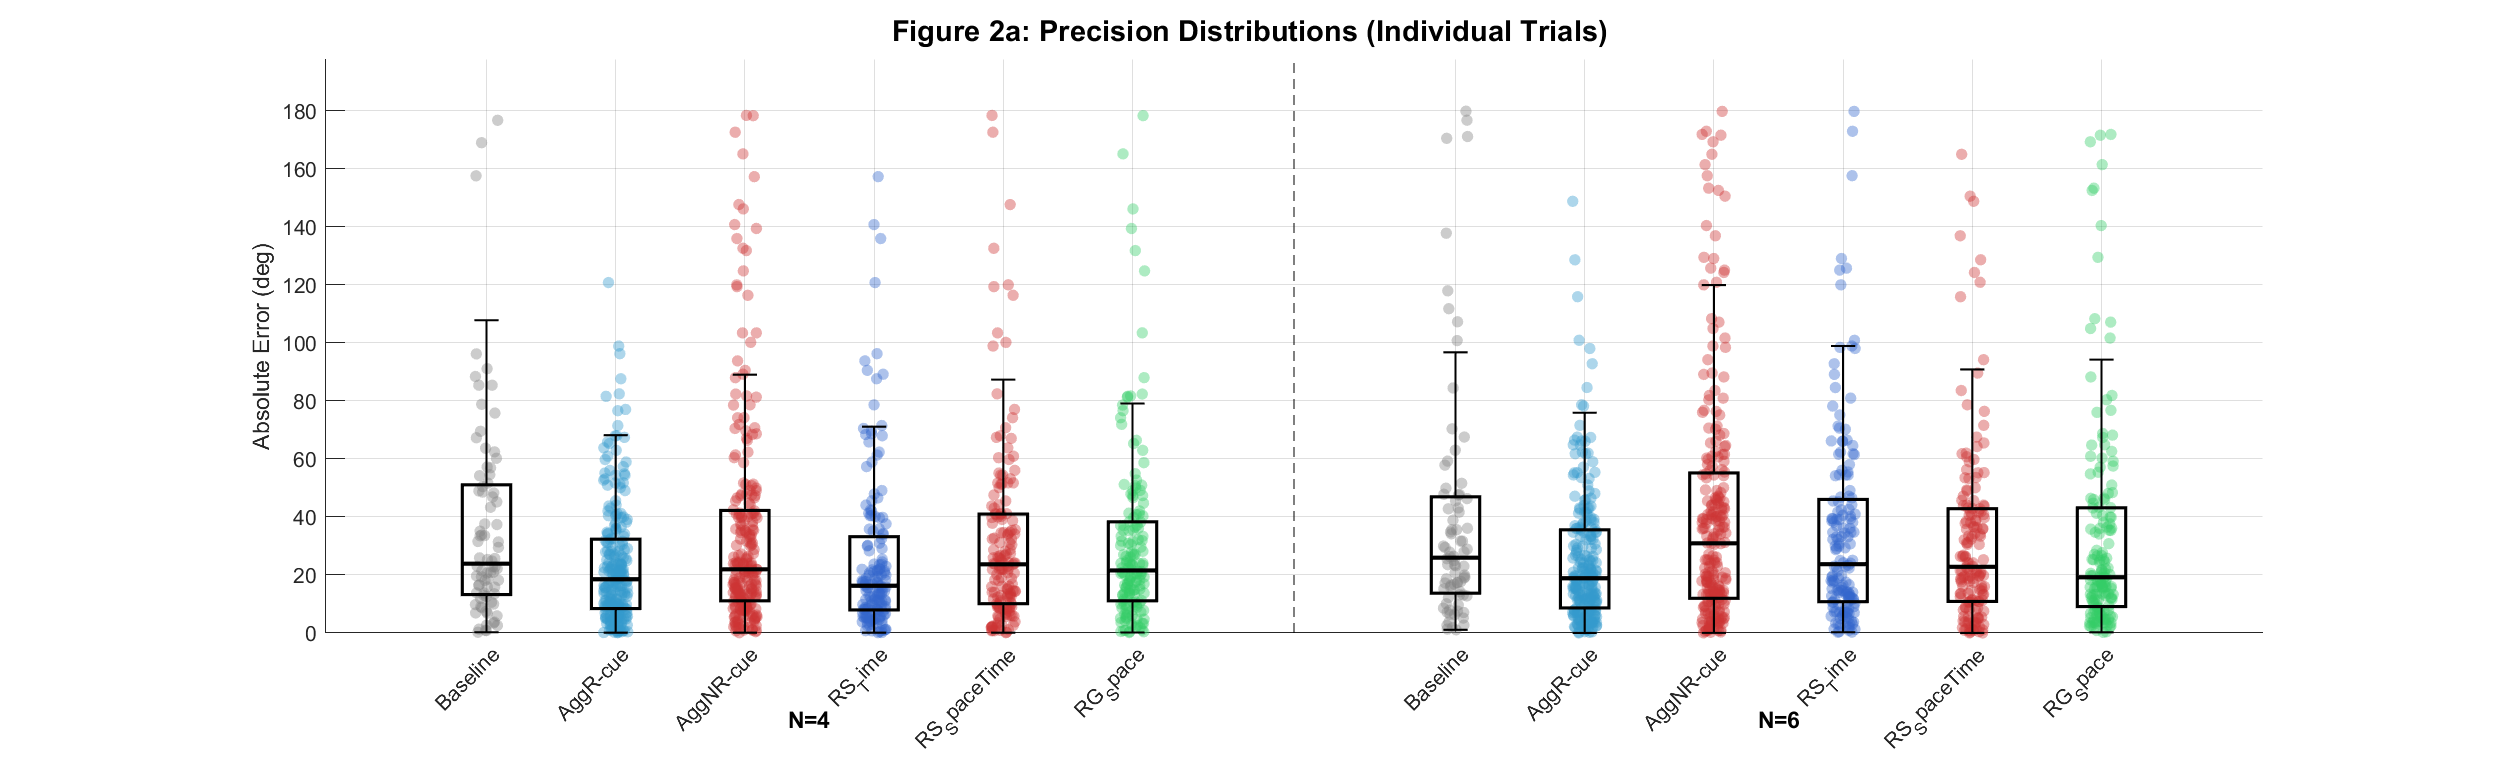
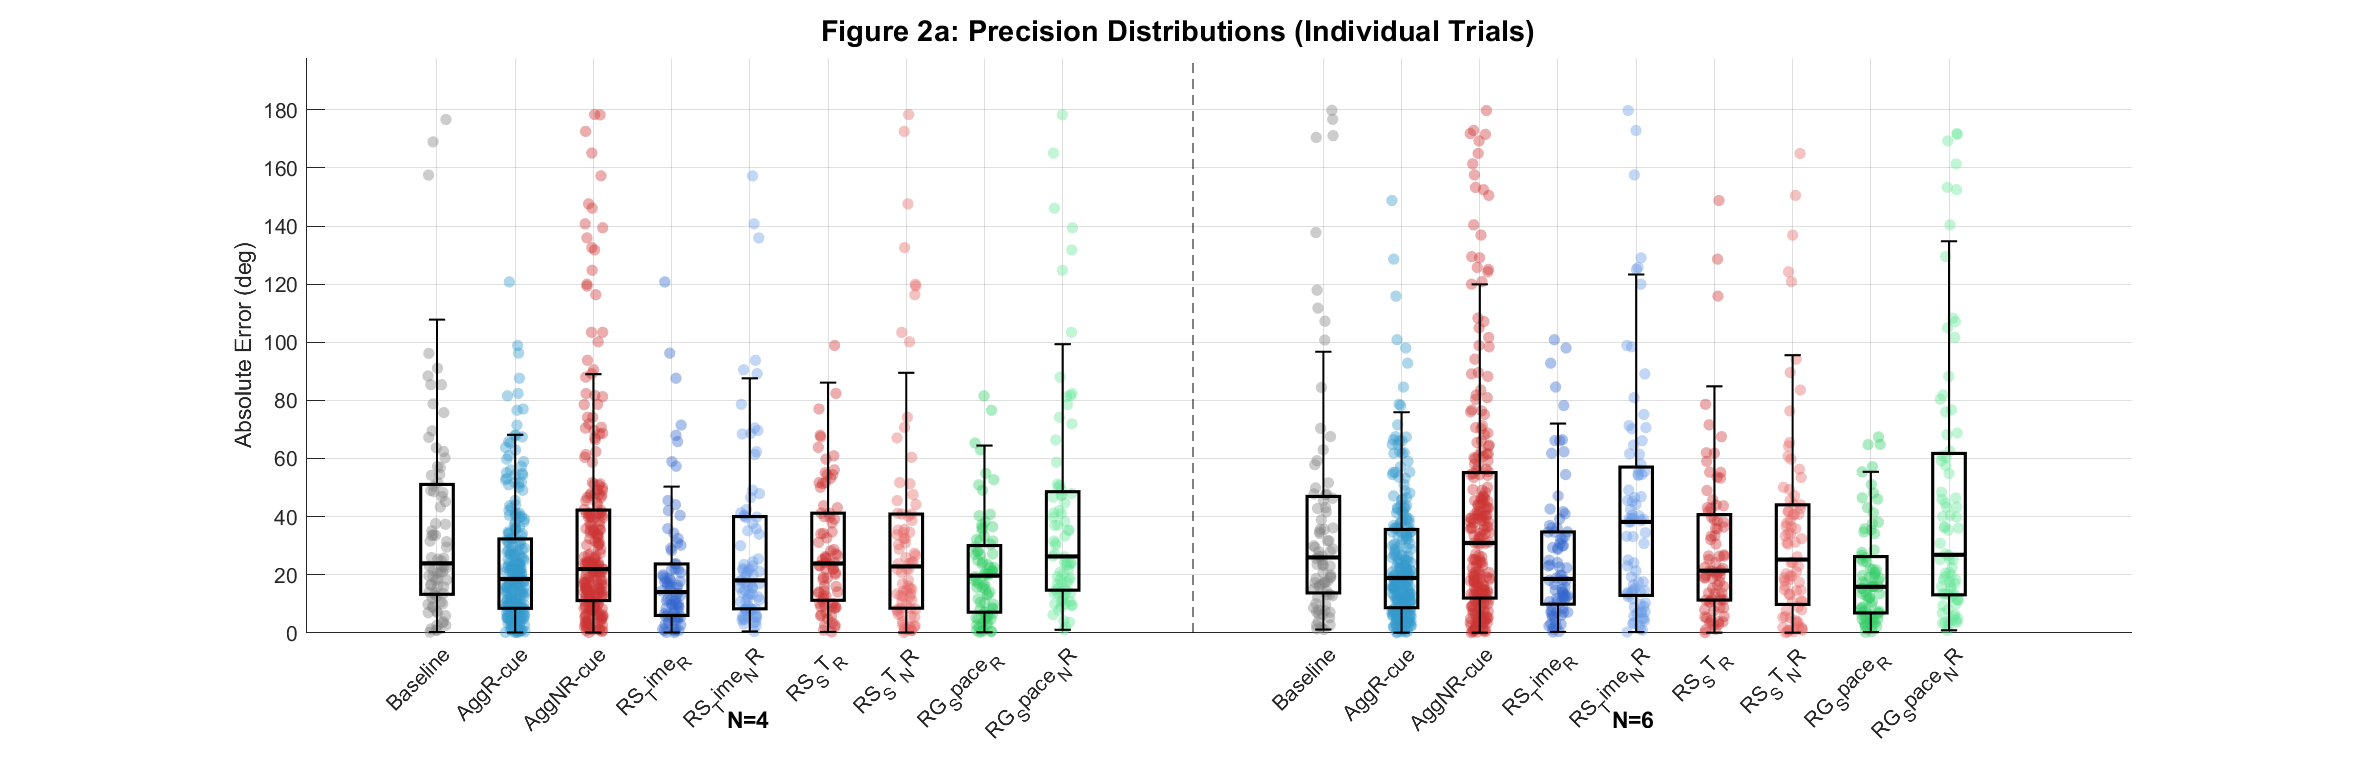
Pilot2 Figure update

diff --git a/Experiments/Daz2025/Exp2.5_NoisePilot/Noise Pilot STInte Data/plot_STInte_summary.m b/Experiments/Daz2025/Exp2.5_NoisePilot/Noise Pilot STInte Data/plot_STInte_summary.m
@@ -7,6 +7,7 @@
 clear; close all; clc;
 
 fprintf('=== Loading STInte Data ===\n\n');
+fprintf('*** SCRIPT VERSION: UPDATED WITH 9 BARS PER GROUP ***\n\n');
 
 % Data directory (script runs from within the data folder)
 dataDir = '.';
@@ -93,12 +94,14 @@ end
 
 % Prepare data for plotting
 % Groups: N=4 (high noise), N=6 (high noise)
-% For each group: Baseline, AggR-cue, AggNR-cue, RS_TimeOnly, RS_SpaceTime, RedundantGrouped
+% For each group: Baseline, AggR-cue, AggNR-cue, RS_TimeOnly_R, RS_TimeOnly_NR, 
+%                 RS_SpaceTime_R, RS_SpaceTime_NR, RedundantGrouped_R, RedundantGrouped_NR
 
 itemNs = [4, 6];
 xGroups = {'N=4', 'N=6'};
 nGroups = length(xGroups);
-barsPerGroup = 6;  % Baseline, AggR-cue, AggNR-cue, RS_TimeOnly, RS_SpaceTime, RedundantGrouped
+barsPerGroup = 9;  % Baseline, AggR-cue, AggNR-cue, RS_TimeOnly_R, RS_TimeOnly_NR, 
+                   % RS_SpaceTime_R, RS_SpaceTime_NR, RedundantGrouped_R, RedundantGrouped_NR
 
 % Initialize storage for all data
 allPrecisionData = cell(nGroups, barsPerGroup);
@@ -133,25 +136,52 @@ for g = 1:nGroups
         allRTData{g, 3} = allTrials.ResponseTime(idx);
     end
     
-    % 4. RS_TimeOnly (aggregated across R-cue and NR-cue)
-    idx = allTrials.ItemN == itemN & strcmp(allTrials.Condition, 'RS_TimeOnly');
+    % 4. RS_TimeOnly_R (R-cue only)
+    idx = allTrials.ItemN == itemN & strcmp(allTrials.Condition, 'RS_TimeOnly') & ...
+          strcmp(allTrials.CueType, 'R');
     if sum(idx) > 0
         allPrecisionData{g, 4} = abs(allTrials.Precision(idx));
         allRTData{g, 4} = allTrials.ResponseTime(idx);
     end
     
-    % 5. RS_SpaceTime (aggregated across R-cue and NR-cue)
-    idx = allTrials.ItemN == itemN & strcmp(allTrials.Condition, 'RS_SpaceTime');
+    % 5. RS_TimeOnly_NR (NR-cue only)
+    idx = allTrials.ItemN == itemN & strcmp(allTrials.Condition, 'RS_TimeOnly') & ...
+          strcmp(allTrials.CueType, 'NR');
     if sum(idx) > 0
         allPrecisionData{g, 5} = abs(allTrials.Precision(idx));
         allRTData{g, 5} = allTrials.ResponseTime(idx);
     end
     
-    % 6. RedundantGrouped (aggregated across R-cue and NR-cue)
-    idx = allTrials.ItemN == itemN & strcmp(allTrials.Condition, 'RedundantGrouped');
+    % 6. RS_SpaceTime_R (R-cue only)
+    idx = allTrials.ItemN == itemN & strcmp(allTrials.Condition, 'RS_SpaceTime') & ...
+          strcmp(allTrials.CueType, 'R');
     if sum(idx) > 0
         allPrecisionData{g, 6} = abs(allTrials.Precision(idx));
         allRTData{g, 6} = allTrials.ResponseTime(idx);
+    end
+    
+    % 7. RS_SpaceTime_NR (NR-cue only)
+    idx = allTrials.ItemN == itemN & strcmp(allTrials.Condition, 'RS_SpaceTime') & ...
+          strcmp(allTrials.CueType, 'NR');
+    if sum(idx) > 0
+        allPrecisionData{g, 7} = abs(allTrials.Precision(idx));
+        allRTData{g, 7} = allTrials.ResponseTime(idx);
+    end
+    
+    % 8. RedundantGrouped_R (R-cue only)
+    idx = allTrials.ItemN == itemN & strcmp(allTrials.Condition, 'RedundantGrouped') & ...
+          strcmp(allTrials.CueType, 'R');
+    if sum(idx) > 0
+        allPrecisionData{g, 8} = abs(allTrials.Precision(idx));
+        allRTData{g, 8} = allTrials.ResponseTime(idx);
+    end
+    
+    % 9. RedundantGrouped_NR (NR-cue only)
+    idx = allTrials.ItemN == itemN & strcmp(allTrials.Condition, 'RedundantGrouped') & ...
+          strcmp(allTrials.CueType, 'NR');
+    if sum(idx) > 0
+        allPrecisionData{g, 9} = abs(allTrials.Precision(idx));
+        allRTData{g, 9} = allTrials.ResponseTime(idx);
     end
 end
 
@@ -193,13 +223,15 @@ end
 
 % --- Figure 1a: Precision ---
 fprintf('Creating Figure 1a: Precision...\n');
+fprintf('*** DEBUG: barsPerGroup = %d ***\n', barsPerGroup);
+fprintf('*** DEBUG: total bars = %d ***\n', length(allBarData));
 fig1a = figure('Position', [100, 100, 1600, 500], 'Color', 'w');
 
 % Determine global Y-axis max
 globalYMax = max(allBarData + allBarCI_upper) * 1.1;
 
 % Set up x-positions
-barSpacing = 0.8;  % Spacing between bars within a group
+barSpacing = 0.6;  % Spacing between bars within a group (reduced for more bars)
 groupSpacing = 2.0;  % Spacing between groups
 xPositions = [];
 xLabels = {};
@@ -209,17 +241,25 @@ for g = 1:nGroups
     groupXPos = xStart + (0:(barsPerGroup-1)) * barSpacing;
     xPositions = [xPositions, groupXPos];
     
-    % Labels: Baseline, AggR-cue, AggNR-cue, RS_TimeOnly, RS_SpaceTime, RedundantGrouped
-    xLabels = [xLabels, {'Baseline', 'AggR-cue', 'AggNR-cue', 'RS_Time', 'RS_SpaceTime', 'RG_Space'}];
+    % Labels: Baseline, AggR-cue, AggNR-cue, RS_Time_R, RS_Time_NR, RS_SpaceTime_R, RS_SpaceTime_NR, RG_Space_R, RG_Space_NR
+    xLabels = [xLabels, {'Baseline', 'AggR-cue', 'AggNR-cue', 'RS_Time_R', 'RS_Time_NR', ...
+                         'RS_ST_R', 'RS_ST_NR', 'RG_Space_R', 'RG_Space_NR'}];
     
     xStart = max(groupXPos) + groupSpacing;
 end
 
 % Plot all bars in single figure
-b = bar(xPositions, allBarData, 0.6, 'FaceColor', 'flat');  % 0.6 = bar width
+b = bar(xPositions, allBarData, 0.4, 'FaceColor', 'flat');  % 0.4 = narrower bar width for more bars
 
 % Set colors for each bar
-barColors = repmat([0.5, 0.5, 0.5; 0.2, 0.6, 0.8; 0.8, 0.2, 0.2; 0.2, 0.4, 0.8; 0.8, 0.2, 0.2; 0.2, 0.8, 0.4], nGroups, 1);
+% Gray (Baseline), Blue (AggR-cue), Red (AggNR-cue), 
+% Darker blue (RS_Time_R), Lighter blue (RS_Time_NR),
+% Darker red (RS_SpaceTime_R), Lighter red (RS_SpaceTime_NR),
+% Darker green (RG_Space_R), Lighter green (RG_Space_NR)
+barColors = repmat([0.5, 0.5, 0.5; 0.2, 0.6, 0.8; 0.8, 0.2, 0.2; ...
+                    0.2, 0.4, 0.8; 0.4, 0.6, 0.9; ...
+                    0.8, 0.2, 0.2; 0.9, 0.4, 0.4; ...
+                    0.2, 0.8, 0.4; 0.4, 0.9, 0.6], nGroups, 1);
 b.CData = barColors;
 
 hold on;
@@ -274,7 +314,7 @@ fig1b = figure('Position', [100, 100, 1600, 500], 'Color', 'w');
 globalRTYMax = max(allRTBarData + allRTBarCI_upper) * 1.1;
 
 % Use same x-positions and labels
-b = bar(xPositions, allRTBarData, 0.6, 'FaceColor', 'flat');
+b = bar(xPositions, allRTBarData, 0.4, 'FaceColor', 'flat');  % 0.4 = narrower bar width
 b.CData = barColors;
 
 hold on;
@@ -348,11 +388,17 @@ for g = 1:nGroups
             elseif b == 3
                 allColors = [allColors; repmat([0.8, 0.2, 0.2], length(yVals), 1)];  % Red (AggNR-cue)
             elseif b == 4
-                allColors = [allColors; repmat([0.2, 0.4, 0.8], length(yVals), 1)];  % Darker blue (RS_Time)
+                allColors = [allColors; repmat([0.2, 0.4, 0.8], length(yVals), 1)];  % Darker blue (RS_Time_R)
             elseif b == 5
-                allColors = [allColors; repmat([0.8, 0.2, 0.2], length(yVals), 1)];  % Red (RS_SpaceTime)
+                allColors = [allColors; repmat([0.4, 0.6, 0.9], length(yVals), 1)];  % Lighter blue (RS_Time_NR)
+            elseif b == 6
+                allColors = [allColors; repmat([0.8, 0.2, 0.2], length(yVals), 1)];  % Darker red (RS_SpaceTime_R)
+            elseif b == 7
+                allColors = [allColors; repmat([0.9, 0.4, 0.4], length(yVals), 1)];  % Lighter red (RS_SpaceTime_NR)
+            elseif b == 8
+                allColors = [allColors; repmat([0.2, 0.8, 0.4], length(yVals), 1)];  % Darker green (RG_Space_R)
             else
-                allColors = [allColors; repmat([0.2, 0.8, 0.4], length(yVals), 1)];  % Green (RG_Space)
+                allColors = [allColors; repmat([0.4, 0.9, 0.6], length(yVals), 1)];  % Lighter green (RG_Space_NR)
             end
         end
     end
@@ -379,7 +425,7 @@ for g = 1:nGroups
             whiskerHigh = min(max(data), q75 + 1.5*iqr);
             
             % Box
-            boxWidth = 0.3;
+            boxWidth = 0.25;  % Narrower box width for more bars
             rectangle('Position', [xPos - boxWidth/2, q25, boxWidth, q75 - q25], ...
                      'FaceColor', 'none', 'EdgeColor', 'k', 'LineWidth', 1.5);
             % Median line
@@ -459,11 +505,17 @@ for g = 1:nGroups
             elseif b == 3
                 allColors = [allColors; repmat([0.8, 0.2, 0.2], length(yVals), 1)];  % Red (AggNR-cue)
             elseif b == 4
-                allColors = [allColors; repmat([0.2, 0.4, 0.8], length(yVals), 1)];  % Darker blue (RS_Time)
+                allColors = [allColors; repmat([0.2, 0.4, 0.8], length(yVals), 1)];  % Darker blue (RS_Time_R)
             elseif b == 5
-                allColors = [allColors; repmat([0.8, 0.2, 0.2], length(yVals), 1)];  % Red (RS_SpaceTime)
+                allColors = [allColors; repmat([0.4, 0.6, 0.9], length(yVals), 1)];  % Lighter blue (RS_Time_NR)
+            elseif b == 6
+                allColors = [allColors; repmat([0.8, 0.2, 0.2], length(yVals), 1)];  % Darker red (RS_SpaceTime_R)
+            elseif b == 7
+                allColors = [allColors; repmat([0.9, 0.4, 0.4], length(yVals), 1)];  % Lighter red (RS_SpaceTime_NR)
+            elseif b == 8
+                allColors = [allColors; repmat([0.2, 0.8, 0.4], length(yVals), 1)];  % Darker green (RG_Space_R)
             else
-                allColors = [allColors; repmat([0.2, 0.8, 0.4], length(yVals), 1)];  % Green (RG_Space)
+                allColors = [allColors; repmat([0.4, 0.9, 0.6], length(yVals), 1)];  % Lighter green (RG_Space_NR)
             end
         end
     end
@@ -490,7 +542,7 @@ for g = 1:nGroups
             whiskerHigh = min(max(data), q75 + 1.5*iqr);
             
             % Box
-            boxWidth = 0.3;
+            boxWidth = 0.25;  % Narrower box width for more bars
             rectangle('Position', [xPos - boxWidth/2, q25, boxWidth, q75 - q25], ...
                      'FaceColor', 'none', 'EdgeColor', 'k', 'LineWidth', 1.5);
             % Median line
@@ -545,4 +597,3 @@ saveas(fig2b, fullfile(dataDir, 'Figure2b_RT_Distributions.png'));
 fprintf('Saved: Figure2b_RT_Distributions.png\n\n');
 
 fprintf('=== Plotting Complete ===\n');
-
